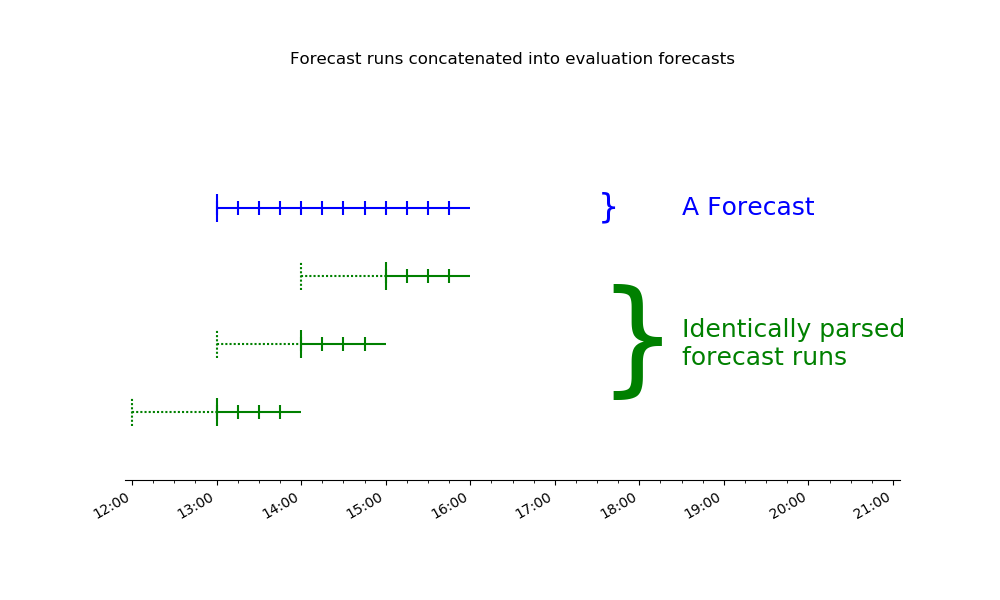
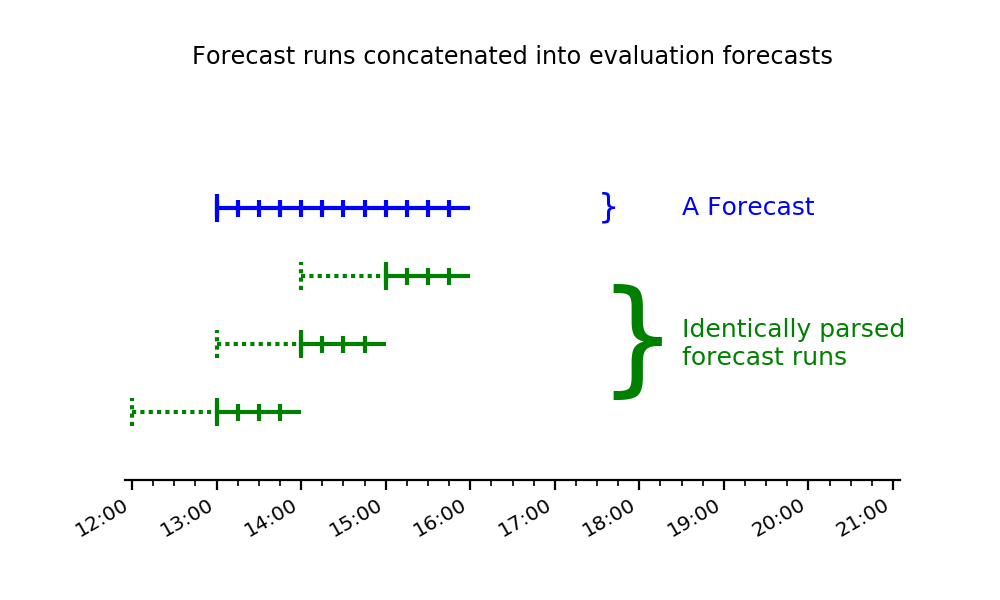
bold, add descriptions

diff --git a/timeline.py b/timeline.py
@@ -1,4 +1,13 @@
-import matplotlib; matplotlib.use('agg')
+import matplotlib as mpl
+mpl.use('agg')
+mpl.rcParams['lines.linewidth'] = 3  # 1.5 default
+mpl.rcParams['axes.linewidth'] = 1.6  # 0.8 default
+mpl.rcParams['axes.titlesize'] = 'xx-large'  # large default
+mpl.rcParams['xtick.major.size'] = 7  # 3.5 default
+mpl.rcParams['xtick.minor.size'] = 4  # 2 default
+mpl.rcParams['xtick.major.width'] = 1.6  # 0.8 default
+mpl.rcParams['xtick.minor.width'] = 1.2  # 0.6 default
+mpl.rcParams['xtick.labelsize'] = 'x-large'  # medium default
 import matplotlib.pyplot as plt
 import matplotlib.dates as mdates
 import pandas as pd
@@ -85,8 +94,8 @@ class Forecast:
 
 
 def draw_forecast_timeline(ax, y, forecast, start_tick_y_length=0.2,
-                           show_lead_time=False, show_last_tick=False,
-                           **kwargs):
+                           interval_tick_y_length=0.125, show_lead_time=False,
+                           show_last_tick=False, **kwargs):
     if show_lead_time:
         ax.hlines(y, xmin=forecast.issue_time, xmax=forecast.start,
                   linestyles=(0, (1, 1)), **kwargs)
@@ -101,8 +110,8 @@ def draw_forecast_timeline(ax, y, forecast, start_tick_y_length=0.2,
     # intervals ticks
     intervals = pd.DatetimeIndex(start=forecast.start, end=forecast.end,
                                  freq=forecast.interval_duration)
-    ax.vlines(intervals[:-1], y - start_tick_y_length / 2,
-              y + start_tick_y_length / 2, **kwargs)
+    ax.vlines(intervals[:-1], y - interval_tick_y_length,
+              y + interval_tick_y_length, **kwargs)
     if show_last_tick:
         # last tick should be longer and dashed
         ax.vlines(intervals[-1], y - start_tick_y_length,

diff --git a/README.md b/README.md
@@ -1,19 +1,72 @@
 fxtimeline
 ==========
 
-`python timeline.py` will create...
+`python timeline.py` will create the following images.
 
 timeline_concat.png
+-------------------
+
+The figure below depicts the concatenation of three forecast runs (green) into
+a single evaluation forecast (blue). The parameters are:
+
+1.	Lead time to start of forecast: 1 hour
+2.	Interval duration: 15 minutes
+3.	Intervals per submission: 4
+4.	Forecast issue frequency: 1 hour
+5.	Value type: Any
+6.  Interval label: Left
 
 ![timeline concat](timeline_concat.png)
 
 
 timeline_concat_1h.png
+----------------------
+
+The figure below depicts the concatenation of three forecast runs (green) into
+a single evaluation forecast (blue). The parameters are:
+
+1.	Lead time to start of forecast: 1 hour
+2.	Interval duration: 1 minutes
+3.	Intervals per submission: 1
+4.	Forecast issue frequency: 1 hour
+5.	Value type: Any
+6.  Interval label: Left
 
 ![timeline concat 1h](timeline_concat_1h.png)
 
 
 timeline_merged.png
+-------------------
+
+The figure below depicts three forecast runs (green) merged into
+two different evaluation forecasts (blue, red).
+
+The green forecast run parameters are:
+
+1.	Lead time to start of forecast: 0
+2.	Interval duration: 15 minutes
+3.	Intervals per submission: 12
+4.	Forecast issue frequency: 1 hour
+5.	Value type: Any
+6.  Interval label: Left
+
+The blue evaluation forecast parameters are:
+
+1.	Lead time to start of forecast: 1 hour
+2.	Interval duration: 15 minutes
+3.	Intervals per submission: 4
+4.	Forecast issue frequency: 1 hour
+5.	Value type: Any
+6.  Interval label: Left
+
+The red evaluation forecast parameters are:
+
+1.	Lead time to start of forecast: 2 hour
+2.	Interval duration: 1 minutes
+3.	Intervals per submission: 1
+4.	Forecast issue frequency: 1 hour
+5.	Value type: Any
+6.  Interval label: Left
 
 ![timeline merged](timeline_merged.png)
 
